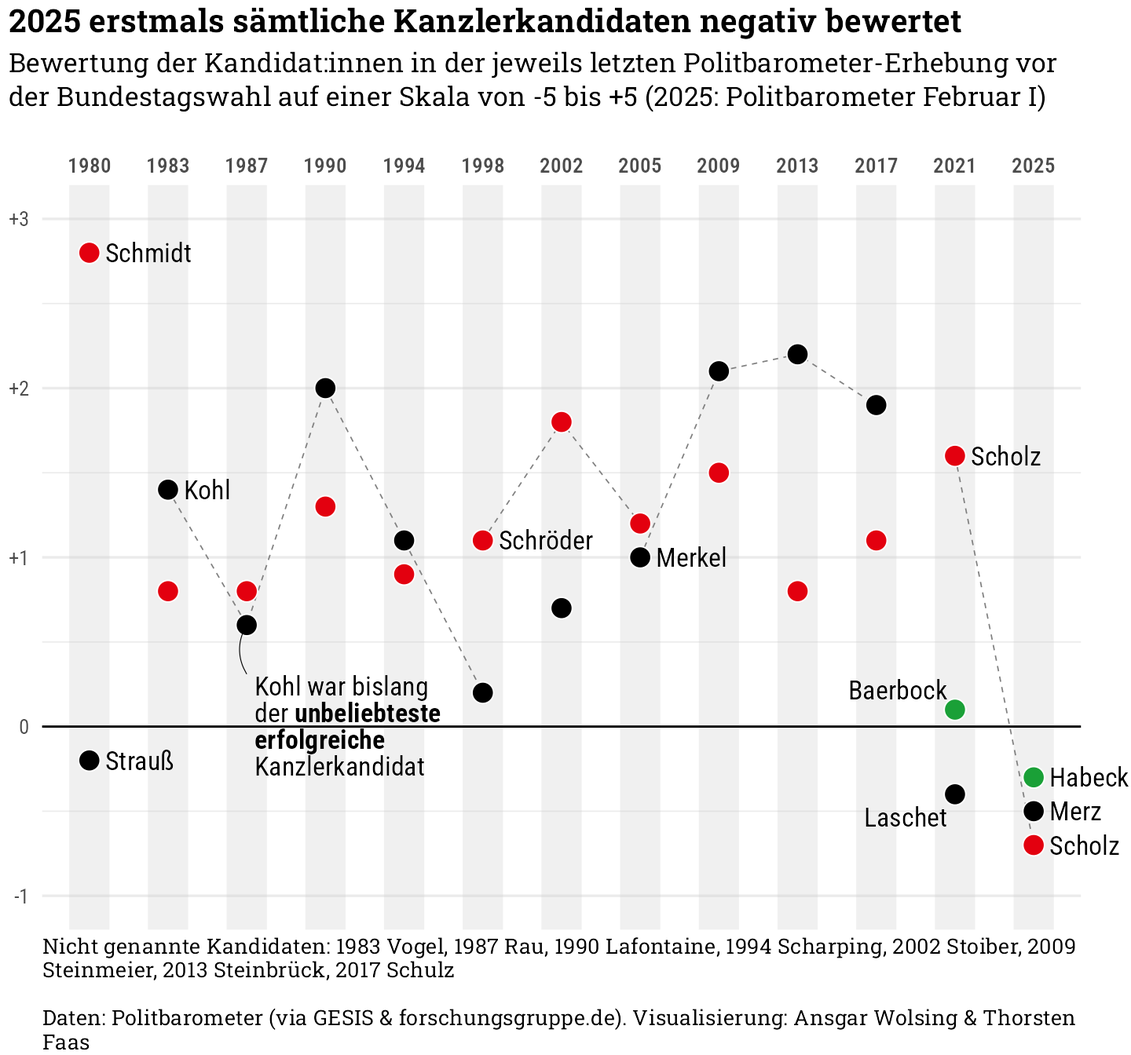
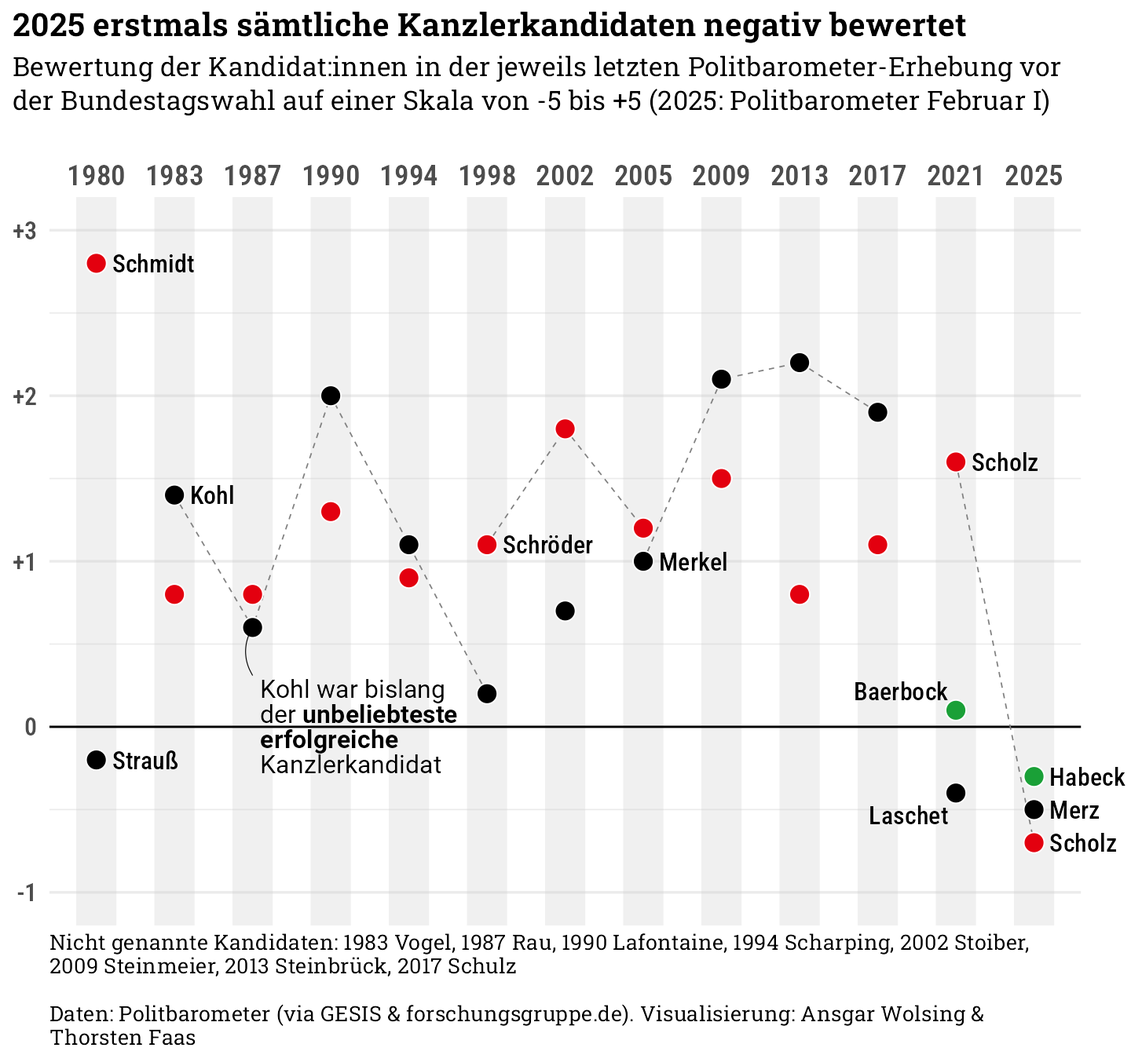
Schriftgröße Kandidaten-Skalometer; neues Chart Zuschauerzahlen ÖRR vs. Privat

diff --git a/06-tv-duell/05-tv-duell.html b/06-tv-duell/05-tv-duell.html
@@ -249,7 +249,7 @@ pre > code.sourceCode > span > a:first-child::before { text-decoration: underlin
 <div class="cell">
 <details class="code-fold">
 <summary>Code</summary>
-<div class="sourceCode cell-code" id="cb5"><pre class="sourceCode r code-with-copy"><code class="sourceCode r"><span id="cb5-1"><a href="#cb5-1" aria-hidden="true" tabindex="-1"></a>annotation_size <span class="ot">&lt;-</span> <span class="fl">4.5</span></span>
+<div class="sourceCode cell-code" id="cb5"><pre class="sourceCode r code-with-copy"><code class="sourceCode r"><span id="cb5-1"><a href="#cb5-1" aria-hidden="true" tabindex="-1"></a>annotation_size <span class="ot">&lt;-</span> <span class="fl">4.25</span></span>
 <span id="cb5-2"><a href="#cb5-2" aria-hidden="true" tabindex="-1"></a></span>
 <span id="cb5-3"><a href="#cb5-3" aria-hidden="true" tabindex="-1"></a>kandidaten_hinweis <span class="ot">&lt;-</span> df_skalo <span class="sc">|&gt;</span> </span>
 <span id="cb5-4"><a href="#cb5-4" aria-hidden="true" tabindex="-1"></a>  <span class="fu">filter</span>(<span class="sc">!</span>kandidat <span class="sc">%in%</span> <span class="fu">c</span>(<span class="st">"Merkel"</span>, <span class="st">"Schröder"</span>, <span class="st">"Schmidt"</span>, <span class="st">"Kohl"</span>, <span class="st">"Merz"</span>, <span class="st">"Scholz"</span>, </span>
@@ -284,57 +284,60 @@ pre > code.sourceCode > span > a:first-child::before { text-decoration: underlin
 <span id="cb5-33"><a href="#cb5-33" aria-hidden="true" tabindex="-1"></a>                   kandidat <span class="sc">==</span> <span class="st">"Merz"</span></span>
 <span id="cb5-34"><a href="#cb5-34" aria-hidden="true" tabindex="-1"></a>                   ),</span>
 <span id="cb5-35"><a href="#cb5-35" aria-hidden="true" tabindex="-1"></a>    <span class="fu">aes</span>(<span class="at">label =</span> kandidat),</span>
-<span id="cb5-36"><a href="#cb5-36" aria-hidden="true" tabindex="-1"></a>    <span class="at">family =</span> <span class="st">"Roboto Condensed"</span>, <span class="at">size =</span> annotation_size, <span class="at">hjust =</span> <span class="dv">0</span>, <span class="at">nudge_x =</span> <span class="fl">0.2</span></span>
-<span id="cb5-37"><a href="#cb5-37" aria-hidden="true" tabindex="-1"></a>  ) <span class="sc">+</span></span>
-<span id="cb5-38"><a href="#cb5-38" aria-hidden="true" tabindex="-1"></a>  <span class="fu">annotate</span>(</span>
-<span id="cb5-39"><a href="#cb5-39" aria-hidden="true" tabindex="-1"></a>    <span class="st">"richtext"</span>,</span>
-<span id="cb5-40"><a href="#cb5-40" aria-hidden="true" tabindex="-1"></a>    <span class="at">x =</span> <span class="fu">c</span>(<span class="st">"1987"</span>, <span class="st">"2021"</span>, <span class="st">"2025"</span>, <span class="st">"2021"</span>), </span>
-<span id="cb5-41"><a href="#cb5-41" aria-hidden="true" tabindex="-1"></a>    <span class="at">y =</span> <span class="fu">c</span>(<span class="fl">0.34</span>, <span class="sc">-</span><span class="fl">0.55</span>, <span class="fl">0.5</span>, <span class="fl">0.2</span>), </span>
-<span id="cb5-42"><a href="#cb5-42" aria-hidden="true" tabindex="-1"></a>    <span class="at">label =</span> <span class="fu">c</span>(</span>
-<span id="cb5-43"><a href="#cb5-43" aria-hidden="true" tabindex="-1"></a>      <span class="st">"Kohl war bislang&lt;br&gt;der **unbeliebteste&lt;br&gt;erfolgreiche**&lt;br&gt;Kanzlerkandidat"</span>,</span>
-<span id="cb5-44"><a href="#cb5-44" aria-hidden="true" tabindex="-1"></a>      <span class="st">"Laschet"</span>,</span>
-<span id="cb5-45"><a href="#cb5-45" aria-hidden="true" tabindex="-1"></a>      <span class="co"># "**2025 alle**&lt;br&gt;Kandidaten&lt;br&gt;im Schnitt&lt;br&gt;negativ&lt;br&gt;bewertet",</span></span>
-<span id="cb5-46"><a href="#cb5-46" aria-hidden="true" tabindex="-1"></a>      <span class="st">""</span>,</span>
-<span id="cb5-47"><a href="#cb5-47" aria-hidden="true" tabindex="-1"></a>      <span class="st">"Baerbock"</span>),</span>
-<span id="cb5-48"><a href="#cb5-48" aria-hidden="true" tabindex="-1"></a>    <span class="at">vjust =</span> <span class="fu">c</span>(<span class="dv">1</span>, <span class="fl">0.5</span>, <span class="fl">0.5</span>, <span class="fl">0.5</span>),</span>
-<span id="cb5-49"><a href="#cb5-49" aria-hidden="true" tabindex="-1"></a>    <span class="at">hjust =</span> <span class="fu">c</span>(<span class="dv">0</span>, <span class="dv">1</span>, <span class="dv">0</span>, <span class="dv">1</span>),</span>
-<span id="cb5-50"><a href="#cb5-50" aria-hidden="true" tabindex="-1"></a>    <span class="at">fill =</span> <span class="cn">NA</span>, <span class="at">label.size =</span> <span class="dv">0</span>, <span class="at">family =</span> <span class="st">"Roboto Condensed"</span>, <span class="at">size =</span> annotation_size,</span>
-<span id="cb5-51"><a href="#cb5-51" aria-hidden="true" tabindex="-1"></a>    <span class="at">lineheight =</span> <span class="dv">1</span></span>
-<span id="cb5-52"><a href="#cb5-52" aria-hidden="true" tabindex="-1"></a>  ) <span class="sc">+</span></span>
-<span id="cb5-53"><a href="#cb5-53" aria-hidden="true" tabindex="-1"></a>  <span class="fu">annotate</span>(</span>
-<span id="cb5-54"><a href="#cb5-54" aria-hidden="true" tabindex="-1"></a>    GeomCurve,</span>
-<span id="cb5-55"><a href="#cb5-55" aria-hidden="true" tabindex="-1"></a>    <span class="at">x =</span> <span class="fu">c</span>(<span class="st">"1987"</span>),</span>
-<span id="cb5-56"><a href="#cb5-56" aria-hidden="true" tabindex="-1"></a>    <span class="at">xend =</span> <span class="fu">c</span>(<span class="st">"1987"</span>),</span>
-<span id="cb5-57"><a href="#cb5-57" aria-hidden="true" tabindex="-1"></a>    <span class="at">y =</span> <span class="fu">c</span>(<span class="fl">0.31</span>),</span>
-<span id="cb5-58"><a href="#cb5-58" aria-hidden="true" tabindex="-1"></a>    <span class="at">yend =</span> <span class="fu">c</span>(<span class="fl">0.6</span>),</span>
-<span id="cb5-59"><a href="#cb5-59" aria-hidden="true" tabindex="-1"></a>    <span class="at">curvature =</span> <span class="sc">-</span><span class="fl">0.3</span>, <span class="at">linewidth =</span> <span class="fl">0.2</span></span>
-<span id="cb5-60"><a href="#cb5-60" aria-hidden="true" tabindex="-1"></a>  ) <span class="sc">+</span></span>
-<span id="cb5-61"><a href="#cb5-61" aria-hidden="true" tabindex="-1"></a>  <span class="fu">scale_x_discrete</span>(<span class="at">position =</span> <span class="st">"top"</span>) <span class="sc">+</span></span>
-<span id="cb5-62"><a href="#cb5-62" aria-hidden="true" tabindex="-1"></a>  <span class="fu">scale_y_continuous</span>(<span class="at">labels =</span> scales<span class="sc">::</span><span class="fu">label_number</span>(<span class="at">style_positive =</span> <span class="st">"plus"</span>)) <span class="sc">+</span></span>
-<span id="cb5-63"><a href="#cb5-63" aria-hidden="true" tabindex="-1"></a>  <span class="fu">scale_fill_manual</span>(<span class="at">values =</span> party_pal) <span class="sc">+</span></span>
-<span id="cb5-64"><a href="#cb5-64" aria-hidden="true" tabindex="-1"></a>  <span class="fu">scale_shape_identity</span>() <span class="sc">+</span></span>
-<span id="cb5-65"><a href="#cb5-65" aria-hidden="true" tabindex="-1"></a>  <span class="fu">scale_color_identity</span>() <span class="sc">+</span></span>
-<span id="cb5-66"><a href="#cb5-66" aria-hidden="true" tabindex="-1"></a>  <span class="fu">coord_cartesian</span>(<span class="at">ylim =</span> <span class="fu">c</span>(<span class="sc">-</span><span class="dv">1</span>, <span class="dv">3</span>), <span class="at">clip =</span> <span class="st">"off"</span>) <span class="sc">+</span></span>
-<span id="cb5-67"><a href="#cb5-67" aria-hidden="true" tabindex="-1"></a>  <span class="fu">guides</span>(<span class="at">fill =</span> <span class="st">"none"</span>) <span class="sc">+</span></span>
-<span id="cb5-68"><a href="#cb5-68" aria-hidden="true" tabindex="-1"></a>  <span class="fu">labs</span>(</span>
-<span id="cb5-69"><a href="#cb5-69" aria-hidden="true" tabindex="-1"></a>    <span class="at">title =</span> <span class="st">"2025 erstmals sämtliche Kanzlerkandidaten negativ bewertet"</span>,</span>
-<span id="cb5-70"><a href="#cb5-70" aria-hidden="true" tabindex="-1"></a>    <span class="at">subtitle =</span> <span class="st">"Bewertung der Kandidat:innen in der jeweils letzten Politbarometer-Erhebung vor der Bundestagswahl auf einer Skala von -5 bis +5 (2025: Politbarometer Februar I)"</span>,</span>
-<span id="cb5-71"><a href="#cb5-71" aria-hidden="true" tabindex="-1"></a>    <span class="at">caption =</span> <span class="fu">paste</span>(</span>
-<span id="cb5-72"><a href="#cb5-72" aria-hidden="true" tabindex="-1"></a>      <span class="fu">paste</span>(</span>
-<span id="cb5-73"><a href="#cb5-73" aria-hidden="true" tabindex="-1"></a>        <span class="st">"Nicht genannte Kandidaten: "</span>,</span>
-<span id="cb5-74"><a href="#cb5-74" aria-hidden="true" tabindex="-1"></a>       <span class="fu">paste</span>(kandidaten_hinweis<span class="sc">$</span>wahl_kandidat_label, <span class="at">collapse =</span> <span class="st">", "</span>)),</span>
-<span id="cb5-75"><a href="#cb5-75" aria-hidden="true" tabindex="-1"></a>      <span class="st">"Daten: Politbarometer (via GESIS &amp; forschungsgruppe.de).</span></span>
-<span id="cb5-76"><a href="#cb5-76" aria-hidden="true" tabindex="-1"></a><span class="st">        Visualisierung: Ansgar Wolsing &amp; Thorsten Faas"</span>, <span class="at">sep =</span> <span class="st">"&lt;br&gt;&lt;br&gt;"</span></span>
-<span id="cb5-77"><a href="#cb5-77" aria-hidden="true" tabindex="-1"></a>    ),</span>
-<span id="cb5-78"><a href="#cb5-78" aria-hidden="true" tabindex="-1"></a>    <span class="at">x =</span> <span class="cn">NULL</span>, <span class="at">y =</span> <span class="cn">NULL</span> <span class="co"># "Bewertung"</span></span>
-<span id="cb5-79"><a href="#cb5-79" aria-hidden="true" tabindex="-1"></a>  ) <span class="sc">+</span></span>
-<span id="cb5-80"><a href="#cb5-80" aria-hidden="true" tabindex="-1"></a>  <span class="fu">theme</span>(</span>
-<span id="cb5-81"><a href="#cb5-81" aria-hidden="true" tabindex="-1"></a>    <span class="at">panel.grid.major.x =</span> <span class="fu">element_blank</span>(),</span>
-<span id="cb5-82"><a href="#cb5-82" aria-hidden="true" tabindex="-1"></a>    <span class="at">panel.grid.minor.x =</span> <span class="fu">element_blank</span>(),</span>
-<span id="cb5-83"><a href="#cb5-83" aria-hidden="true" tabindex="-1"></a>    <span class="at">axis.text.x.top =</span> <span class="fu">element_text</span>(<span class="at">family =</span> <span class="st">"Roboto Condensed SemiBold"</span>),</span>
-<span id="cb5-84"><a href="#cb5-84" aria-hidden="true" tabindex="-1"></a>    <span class="at">plot.subtitle =</span> <span class="fu">element_textbox</span>(<span class="at">margin =</span> <span class="fu">margin</span>(<span class="at">b =</span> <span class="dv">20</span>)),</span>
-<span id="cb5-85"><a href="#cb5-85" aria-hidden="true" tabindex="-1"></a>    <span class="at">plot.margin =</span> <span class="fu">margin</span>(<span class="at">t =</span> <span class="dv">4</span>, <span class="at">r =</span> <span class="dv">24</span>, <span class="at">b =</span> <span class="dv">4</span>, <span class="at">l =</span> <span class="dv">4</span>)</span>
-<span id="cb5-86"><a href="#cb5-86" aria-hidden="true" tabindex="-1"></a>  )</span></code><button title="Copy to Clipboard" class="code-copy-button"><i class="bi"></i></button></pre></div>
+<span id="cb5-36"><a href="#cb5-36" aria-hidden="true" tabindex="-1"></a>    <span class="at">family =</span> <span class="st">"Roboto Condensed Medium"</span>, <span class="at">size =</span> annotation_size,</span>
+<span id="cb5-37"><a href="#cb5-37" aria-hidden="true" tabindex="-1"></a>    <span class="at">hjust =</span> <span class="dv">0</span>, <span class="at">nudge_x =</span> <span class="fl">0.2</span></span>
+<span id="cb5-38"><a href="#cb5-38" aria-hidden="true" tabindex="-1"></a>  ) <span class="sc">+</span></span>
+<span id="cb5-39"><a href="#cb5-39" aria-hidden="true" tabindex="-1"></a>  <span class="fu">annotate</span>(</span>
+<span id="cb5-40"><a href="#cb5-40" aria-hidden="true" tabindex="-1"></a>    <span class="st">"richtext"</span>,</span>
+<span id="cb5-41"><a href="#cb5-41" aria-hidden="true" tabindex="-1"></a>    <span class="at">x =</span> <span class="fu">c</span>(<span class="st">"1987"</span>, <span class="st">"2021"</span>, <span class="st">"2025"</span>, <span class="st">"2021"</span>), </span>
+<span id="cb5-42"><a href="#cb5-42" aria-hidden="true" tabindex="-1"></a>    <span class="at">y =</span> <span class="fu">c</span>(<span class="fl">0.33</span>, <span class="sc">-</span><span class="fl">0.55</span>, <span class="fl">0.5</span>, <span class="fl">0.2</span>), </span>
+<span id="cb5-43"><a href="#cb5-43" aria-hidden="true" tabindex="-1"></a>    <span class="at">label =</span> <span class="fu">c</span>(</span>
+<span id="cb5-44"><a href="#cb5-44" aria-hidden="true" tabindex="-1"></a>      <span class="st">"&lt;span style='font-family: Roboto Condensed'&gt;Kohl war </span></span>
+<span id="cb5-45"><a href="#cb5-45" aria-hidden="true" tabindex="-1"></a><span class="st">      bislang&lt;br&gt;der **unbeliebteste&lt;br&gt;erfolgreiche**&lt;br&gt;Kanzlerkandidat&lt;/span&gt;"</span>,</span>
+<span id="cb5-46"><a href="#cb5-46" aria-hidden="true" tabindex="-1"></a>      <span class="st">"Laschet"</span>,</span>
+<span id="cb5-47"><a href="#cb5-47" aria-hidden="true" tabindex="-1"></a>      <span class="co"># "**2025 alle**&lt;br&gt;Kandidaten&lt;br&gt;im Schnitt&lt;br&gt;negativ&lt;br&gt;bewertet",</span></span>
+<span id="cb5-48"><a href="#cb5-48" aria-hidden="true" tabindex="-1"></a>      <span class="st">""</span>,</span>
+<span id="cb5-49"><a href="#cb5-49" aria-hidden="true" tabindex="-1"></a>      <span class="st">"Baerbock"</span>),</span>
+<span id="cb5-50"><a href="#cb5-50" aria-hidden="true" tabindex="-1"></a>    <span class="at">vjust =</span> <span class="fu">c</span>(<span class="dv">1</span>, <span class="fl">0.5</span>, <span class="fl">0.5</span>, <span class="fl">0.5</span>),</span>
+<span id="cb5-51"><a href="#cb5-51" aria-hidden="true" tabindex="-1"></a>    <span class="at">hjust =</span> <span class="fu">c</span>(<span class="dv">0</span>, <span class="dv">1</span>, <span class="dv">0</span>, <span class="dv">1</span>),</span>
+<span id="cb5-52"><a href="#cb5-52" aria-hidden="true" tabindex="-1"></a>    <span class="at">fill =</span> <span class="cn">NA</span>, <span class="at">label.size =</span> <span class="dv">0</span>, <span class="at">family =</span> <span class="st">"Roboto Condensed Medium"</span>, </span>
+<span id="cb5-53"><a href="#cb5-53" aria-hidden="true" tabindex="-1"></a>    <span class="at">size =</span> annotation_size, <span class="at">lineheight =</span> <span class="dv">1</span></span>
+<span id="cb5-54"><a href="#cb5-54" aria-hidden="true" tabindex="-1"></a>  ) <span class="sc">+</span></span>
+<span id="cb5-55"><a href="#cb5-55" aria-hidden="true" tabindex="-1"></a>  <span class="fu">annotate</span>(</span>
+<span id="cb5-56"><a href="#cb5-56" aria-hidden="true" tabindex="-1"></a>    GeomCurve,</span>
+<span id="cb5-57"><a href="#cb5-57" aria-hidden="true" tabindex="-1"></a>    <span class="at">x =</span> <span class="fu">c</span>(<span class="st">"1987"</span>),</span>
+<span id="cb5-58"><a href="#cb5-58" aria-hidden="true" tabindex="-1"></a>    <span class="at">xend =</span> <span class="fu">c</span>(<span class="st">"1987"</span>),</span>
+<span id="cb5-59"><a href="#cb5-59" aria-hidden="true" tabindex="-1"></a>    <span class="at">y =</span> <span class="fu">c</span>(<span class="fl">0.31</span>),</span>
+<span id="cb5-60"><a href="#cb5-60" aria-hidden="true" tabindex="-1"></a>    <span class="at">yend =</span> <span class="fu">c</span>(<span class="fl">0.6</span>),</span>
+<span id="cb5-61"><a href="#cb5-61" aria-hidden="true" tabindex="-1"></a>    <span class="at">curvature =</span> <span class="sc">-</span><span class="fl">0.3</span>, <span class="at">linewidth =</span> <span class="fl">0.2</span></span>
+<span id="cb5-62"><a href="#cb5-62" aria-hidden="true" tabindex="-1"></a>  ) <span class="sc">+</span></span>
+<span id="cb5-63"><a href="#cb5-63" aria-hidden="true" tabindex="-1"></a>  <span class="fu">scale_x_discrete</span>(<span class="at">position =</span> <span class="st">"top"</span>) <span class="sc">+</span></span>
+<span id="cb5-64"><a href="#cb5-64" aria-hidden="true" tabindex="-1"></a>  <span class="fu">scale_y_continuous</span>(<span class="at">labels =</span> scales<span class="sc">::</span><span class="fu">label_number</span>(<span class="at">style_positive =</span> <span class="st">"plus"</span>)) <span class="sc">+</span></span>
+<span id="cb5-65"><a href="#cb5-65" aria-hidden="true" tabindex="-1"></a>  <span class="fu">scale_fill_manual</span>(<span class="at">values =</span> party_pal) <span class="sc">+</span></span>
+<span id="cb5-66"><a href="#cb5-66" aria-hidden="true" tabindex="-1"></a>  <span class="fu">scale_shape_identity</span>() <span class="sc">+</span></span>
+<span id="cb5-67"><a href="#cb5-67" aria-hidden="true" tabindex="-1"></a>  <span class="fu">scale_color_identity</span>() <span class="sc">+</span></span>
+<span id="cb5-68"><a href="#cb5-68" aria-hidden="true" tabindex="-1"></a>  <span class="fu">coord_cartesian</span>(<span class="at">ylim =</span> <span class="fu">c</span>(<span class="sc">-</span><span class="dv">1</span>, <span class="dv">3</span>), <span class="at">clip =</span> <span class="st">"off"</span>) <span class="sc">+</span></span>
+<span id="cb5-69"><a href="#cb5-69" aria-hidden="true" tabindex="-1"></a>  <span class="fu">guides</span>(<span class="at">fill =</span> <span class="st">"none"</span>) <span class="sc">+</span></span>
+<span id="cb5-70"><a href="#cb5-70" aria-hidden="true" tabindex="-1"></a>  <span class="fu">labs</span>(</span>
+<span id="cb5-71"><a href="#cb5-71" aria-hidden="true" tabindex="-1"></a>    <span class="at">title =</span> <span class="st">"2025 erstmals sämtliche Kanzlerkandidaten negativ bewertet"</span>,</span>
+<span id="cb5-72"><a href="#cb5-72" aria-hidden="true" tabindex="-1"></a>    <span class="at">subtitle =</span> <span class="st">"Bewertung der Kandidat:innen in der jeweils letzten Politbarometer-Erhebung vor der Bundestagswahl auf einer Skala von -5 bis +5 (2025: Politbarometer Februar I)"</span>,</span>
+<span id="cb5-73"><a href="#cb5-73" aria-hidden="true" tabindex="-1"></a>    <span class="at">caption =</span> <span class="fu">paste</span>(</span>
+<span id="cb5-74"><a href="#cb5-74" aria-hidden="true" tabindex="-1"></a>      <span class="fu">paste</span>(</span>
+<span id="cb5-75"><a href="#cb5-75" aria-hidden="true" tabindex="-1"></a>        <span class="st">"Nicht genannte Kandidaten: "</span>,</span>
+<span id="cb5-76"><a href="#cb5-76" aria-hidden="true" tabindex="-1"></a>       <span class="fu">paste</span>(kandidaten_hinweis<span class="sc">$</span>wahl_kandidat_label, <span class="at">collapse =</span> <span class="st">", "</span>)),</span>
+<span id="cb5-77"><a href="#cb5-77" aria-hidden="true" tabindex="-1"></a>      <span class="st">"Daten: Politbarometer (via GESIS &amp; forschungsgruppe.de).</span></span>
+<span id="cb5-78"><a href="#cb5-78" aria-hidden="true" tabindex="-1"></a><span class="st">        Visualisierung: Ansgar Wolsing &amp; Thorsten Faas"</span>, <span class="at">sep =</span> <span class="st">"&lt;br&gt;&lt;br&gt;"</span></span>
+<span id="cb5-79"><a href="#cb5-79" aria-hidden="true" tabindex="-1"></a>    ),</span>
+<span id="cb5-80"><a href="#cb5-80" aria-hidden="true" tabindex="-1"></a>    <span class="at">x =</span> <span class="cn">NULL</span>, <span class="at">y =</span> <span class="cn">NULL</span> <span class="co"># "Bewertung"</span></span>
+<span id="cb5-81"><a href="#cb5-81" aria-hidden="true" tabindex="-1"></a>  ) <span class="sc">+</span></span>
+<span id="cb5-82"><a href="#cb5-82" aria-hidden="true" tabindex="-1"></a>  <span class="fu">theme</span>(</span>
+<span id="cb5-83"><a href="#cb5-83" aria-hidden="true" tabindex="-1"></a>    <span class="at">panel.grid.major.x =</span> <span class="fu">element_blank</span>(),</span>
+<span id="cb5-84"><a href="#cb5-84" aria-hidden="true" tabindex="-1"></a>    <span class="at">panel.grid.minor.x =</span> <span class="fu">element_blank</span>(),</span>
+<span id="cb5-85"><a href="#cb5-85" aria-hidden="true" tabindex="-1"></a>    <span class="at">axis.text.y =</span> <span class="fu">element_text</span>(<span class="at">family =</span> <span class="st">"Roboto Condensed SemiBold"</span>, <span class="at">size =</span> <span class="dv">12</span>),</span>
+<span id="cb5-86"><a href="#cb5-86" aria-hidden="true" tabindex="-1"></a>    <span class="at">axis.text.x.top =</span> <span class="fu">element_text</span>(<span class="at">family =</span> <span class="st">"Roboto Condensed SemiBold"</span>, <span class="at">size =</span> <span class="dv">14</span>),</span>
+<span id="cb5-87"><a href="#cb5-87" aria-hidden="true" tabindex="-1"></a>    <span class="at">plot.subtitle =</span> <span class="fu">element_textbox</span>(<span class="at">margin =</span> <span class="fu">margin</span>(<span class="at">b =</span> <span class="dv">20</span>)),</span>
+<span id="cb5-88"><a href="#cb5-88" aria-hidden="true" tabindex="-1"></a>    <span class="at">plot.margin =</span> <span class="fu">margin</span>(<span class="at">t =</span> <span class="dv">6</span>, <span class="at">r =</span> <span class="dv">24</span>, <span class="at">b =</span> <span class="dv">6</span>, <span class="at">l =</span> <span class="dv">6</span>)</span>
+<span id="cb5-89"><a href="#cb5-89" aria-hidden="true" tabindex="-1"></a>  )</span></code><button title="Copy to Clipboard" class="code-copy-button"><i class="bi"></i></button></pre></div>
 </details>
 <div class="cell-output-display">
 <div>
@@ -367,49 +370,44 @@ pre > code.sourceCode > span > a:first-child::before { text-decoration: underlin
 <span id="cb7-8"><a href="#cb7-8" aria-hidden="true" tabindex="-1"></a>  <span class="dv">2021</span>, <span class="st">"Laschet/Scholz/Baerbock"</span></span>
 <span id="cb7-9"><a href="#cb7-9" aria-hidden="true" tabindex="-1"></a>)</span>
 <span id="cb7-10"><a href="#cb7-10" aria-hidden="true" tabindex="-1"></a></span>
-<span id="cb7-11"><a href="#cb7-11" aria-hidden="true" tabindex="-1"></a>df_zuschauer <span class="sc">|&gt;</span> </span>
-<span id="cb7-12"><a href="#cb7-12" aria-hidden="true" tabindex="-1"></a>  <span class="fu">inner_join</span>(btw_kandidaten, <span class="at">by =</span> <span class="fu">join_by</span>(btw)) <span class="sc">|&gt;</span> </span>
-<span id="cb7-13"><a href="#cb7-13" aria-hidden="true" tabindex="-1"></a>  <span class="co"># mutate(</span></span>
-<span id="cb7-14"><a href="#cb7-14" aria-hidden="true" tabindex="-1"></a>  <span class="co">#   btw_kandidaten_label = paste(btw, kandidaten, sep = "\n"),</span></span>
-<span id="cb7-15"><a href="#cb7-15" aria-hidden="true" tabindex="-1"></a>  <span class="co">#   btw_kandidaten_label = ifelse(</span></span>
-<span id="cb7-16"><a href="#cb7-16" aria-hidden="true" tabindex="-1"></a>  <span class="co">#     btw %in% 2005:2017,</span></span>
-<span id="cb7-17"><a href="#cb7-17" aria-hidden="true" tabindex="-1"></a>  <span class="co">#     str_wrap(btw_kandidaten_label, 10, whitespace_only = FALSE),</span></span>
-<span id="cb7-18"><a href="#cb7-18" aria-hidden="true" tabindex="-1"></a>  <span class="co">#     btw_kandidaten_label)) |&gt; </span></span>
-<span id="cb7-19"><a href="#cb7-19" aria-hidden="true" tabindex="-1"></a>    <span class="fu">mutate</span>(</span>
-<span id="cb7-20"><a href="#cb7-20" aria-hidden="true" tabindex="-1"></a>      <span class="at">kandidate_label =</span> <span class="fu">ifelse</span>(</span>
-<span id="cb7-21"><a href="#cb7-21" aria-hidden="true" tabindex="-1"></a>         btw <span class="sc">%in%</span> <span class="dv">2005</span><span class="sc">:</span><span class="dv">2017</span>,</span>
-<span id="cb7-22"><a href="#cb7-22" aria-hidden="true" tabindex="-1"></a>         <span class="fu">str_replace</span>(kandidaten, <span class="st">"/"</span>, <span class="st">"/&lt;br&gt;"</span>),</span>
-<span id="cb7-23"><a href="#cb7-23" aria-hidden="true" tabindex="-1"></a>         kandidaten</span>
-<span id="cb7-24"><a href="#cb7-24" aria-hidden="true" tabindex="-1"></a>      ),</span>
-<span id="cb7-25"><a href="#cb7-25" aria-hidden="true" tabindex="-1"></a>    <span class="at">btw_kandidaten_label =</span> <span class="fu">sprintf</span>(<span class="st">"&lt;b style='font-size:12pt'&gt;%s&lt;/b&gt;&lt;br&gt;%s"</span>, btw, kandidate_label)</span>
-<span id="cb7-26"><a href="#cb7-26" aria-hidden="true" tabindex="-1"></a>    ) <span class="sc">|&gt;</span> </span>
-<span id="cb7-27"><a href="#cb7-27" aria-hidden="true" tabindex="-1"></a>  <span class="fu">ggplot</span>(<span class="fu">aes</span>(sendungsnummer, zuschauer)) <span class="sc">+</span></span>
-<span id="cb7-28"><a href="#cb7-28" aria-hidden="true" tabindex="-1"></a>  <span class="fu">geom_col</span>(</span>
-<span id="cb7-29"><a href="#cb7-29" aria-hidden="true" tabindex="-1"></a>    <span class="at">fill =</span> color_pal[<span class="dv">1</span>]</span>
+<span id="cb7-11"><a href="#cb7-11" aria-hidden="true" tabindex="-1"></a>df_zuschauer <span class="sc">|&gt;</span></span>
+<span id="cb7-12"><a href="#cb7-12" aria-hidden="true" tabindex="-1"></a>  <span class="fu">filter</span>(btw <span class="sc">&lt;=</span> <span class="dv">2021</span>) <span class="sc">|&gt;</span> </span>
+<span id="cb7-13"><a href="#cb7-13" aria-hidden="true" tabindex="-1"></a>  <span class="fu">inner_join</span>(btw_kandidaten, <span class="at">by =</span> <span class="fu">join_by</span>(btw)) <span class="sc">|&gt;</span> </span>
+<span id="cb7-14"><a href="#cb7-14" aria-hidden="true" tabindex="-1"></a>    <span class="fu">mutate</span>(</span>
+<span id="cb7-15"><a href="#cb7-15" aria-hidden="true" tabindex="-1"></a>      <span class="at">kandidate_label =</span> <span class="fu">ifelse</span>(</span>
+<span id="cb7-16"><a href="#cb7-16" aria-hidden="true" tabindex="-1"></a>         btw <span class="sc">%in%</span> <span class="dv">2005</span><span class="sc">:</span><span class="dv">2017</span>,</span>
+<span id="cb7-17"><a href="#cb7-17" aria-hidden="true" tabindex="-1"></a>         <span class="fu">str_replace</span>(kandidaten, <span class="st">"/"</span>, <span class="st">"/&lt;br&gt;"</span>),</span>
+<span id="cb7-18"><a href="#cb7-18" aria-hidden="true" tabindex="-1"></a>         kandidaten</span>
+<span id="cb7-19"><a href="#cb7-19" aria-hidden="true" tabindex="-1"></a>      ),</span>
+<span id="cb7-20"><a href="#cb7-20" aria-hidden="true" tabindex="-1"></a>    <span class="at">btw_kandidaten_label =</span> <span class="fu">sprintf</span>(<span class="st">"&lt;b style='font-size:12pt'&gt;%s&lt;/b&gt;&lt;br&gt;%s"</span>, btw, kandidate_label)</span>
+<span id="cb7-21"><a href="#cb7-21" aria-hidden="true" tabindex="-1"></a>    ) <span class="sc">|&gt;</span> </span>
+<span id="cb7-22"><a href="#cb7-22" aria-hidden="true" tabindex="-1"></a>  <span class="fu">ggplot</span>(<span class="fu">aes</span>(sendungsnummer, zuschauer)) <span class="sc">+</span></span>
+<span id="cb7-23"><a href="#cb7-23" aria-hidden="true" tabindex="-1"></a>  <span class="fu">geom_col</span>(</span>
+<span id="cb7-24"><a href="#cb7-24" aria-hidden="true" tabindex="-1"></a>    <span class="at">fill =</span> color_pal[<span class="dv">1</span>]</span>
+<span id="cb7-25"><a href="#cb7-25" aria-hidden="true" tabindex="-1"></a>  ) <span class="sc">+</span></span>
+<span id="cb7-26"><a href="#cb7-26" aria-hidden="true" tabindex="-1"></a>  <span class="fu">geom_text</span>(</span>
+<span id="cb7-27"><a href="#cb7-27" aria-hidden="true" tabindex="-1"></a>    <span class="fu">aes</span>(<span class="at">label =</span> scales<span class="sc">::</span><span class="fu">number</span>(zuschauer, <span class="at">accuracy =</span> <span class="fl">0.1</span>, <span class="at">decimal.mark =</span> <span class="st">","</span>)),</span>
+<span id="cb7-28"><a href="#cb7-28" aria-hidden="true" tabindex="-1"></a>    <span class="at">vjust =</span> <span class="dv">1</span>, <span class="at">nudge_y =</span> <span class="sc">-</span><span class="fl">0.5</span>,</span>
+<span id="cb7-29"><a href="#cb7-29" aria-hidden="true" tabindex="-1"></a>    <span class="at">family =</span> <span class="st">"Roboto Condensed SemiBold"</span>, <span class="at">col =</span> <span class="st">"white"</span></span>
 <span id="cb7-30"><a href="#cb7-30" aria-hidden="true" tabindex="-1"></a>  ) <span class="sc">+</span></span>
-<span id="cb7-31"><a href="#cb7-31" aria-hidden="true" tabindex="-1"></a>  <span class="fu">geom_text</span>(</span>
-<span id="cb7-32"><a href="#cb7-32" aria-hidden="true" tabindex="-1"></a>    <span class="fu">aes</span>(<span class="at">label =</span> scales<span class="sc">::</span><span class="fu">number</span>(zuschauer, <span class="at">accuracy =</span> <span class="fl">0.1</span>, <span class="at">decimal.mark =</span> <span class="st">","</span>)),</span>
-<span id="cb7-33"><a href="#cb7-33" aria-hidden="true" tabindex="-1"></a>    <span class="at">vjust =</span> <span class="dv">1</span>, <span class="at">nudge_y =</span> <span class="sc">-</span><span class="fl">0.5</span>,</span>
-<span id="cb7-34"><a href="#cb7-34" aria-hidden="true" tabindex="-1"></a>    <span class="at">family =</span> <span class="st">"Roboto Condensed SemiBold"</span>, <span class="at">col =</span> <span class="st">"white"</span></span>
-<span id="cb7-35"><a href="#cb7-35" aria-hidden="true" tabindex="-1"></a>  ) <span class="sc">+</span></span>
-<span id="cb7-36"><a href="#cb7-36" aria-hidden="true" tabindex="-1"></a>  <span class="fu">geom_hline</span>(<span class="fu">aes</span>(<span class="at">yintercept =</span> <span class="dv">0</span>)) <span class="sc">+</span></span>
-<span id="cb7-37"><a href="#cb7-37" aria-hidden="true" tabindex="-1"></a>  <span class="fu">facet_grid</span>(<span class="at">cols =</span> <span class="fu">vars</span>(btw_kandidaten_label), <span class="at">switch =</span> <span class="st">"x"</span>, <span class="at">space =</span> <span class="st">"free_x"</span>, <span class="at">scale =</span> <span class="st">"free_x"</span>) <span class="sc">+</span></span>
-<span id="cb7-38"><a href="#cb7-38" aria-hidden="true" tabindex="-1"></a>  <span class="fu">labs</span>(</span>
-<span id="cb7-39"><a href="#cb7-39" aria-hidden="true" tabindex="-1"></a>    <span class="at">title =</span> <span class="st">"Zuschauerinteresse an den TV-Duellen im Bundestagswahlkampf"</span>,</span>
-<span id="cb7-40"><a href="#cb7-40" aria-hidden="true" tabindex="-1"></a>    <span class="at">subtitle =</span> <span class="st">"Zuschauer in Mio."</span>,</span>
-<span id="cb7-41"><a href="#cb7-41" aria-hidden="true" tabindex="-1"></a>    <span class="at">caption =</span> <span class="st">"Daten: Wikipedia, eigene Recherche. Visualisierung: Ansgar Wolsing &amp; Thorsten Faas"</span>,</span>
-<span id="cb7-42"><a href="#cb7-42" aria-hidden="true" tabindex="-1"></a>  ) <span class="sc">+</span></span>
-<span id="cb7-43"><a href="#cb7-43" aria-hidden="true" tabindex="-1"></a>  <span class="fu">theme</span>(</span>
-<span id="cb7-44"><a href="#cb7-44" aria-hidden="true" tabindex="-1"></a>    <span class="at">axis.text =</span> <span class="fu">element_blank</span>(),</span>
-<span id="cb7-45"><a href="#cb7-45" aria-hidden="true" tabindex="-1"></a>    <span class="at">axis.text.x =</span> <span class="fu">element_blank</span>(),</span>
-<span id="cb7-46"><a href="#cb7-46" aria-hidden="true" tabindex="-1"></a>    <span class="at">axis.title =</span> <span class="fu">element_blank</span>(),</span>
-<span id="cb7-47"><a href="#cb7-47" aria-hidden="true" tabindex="-1"></a>    <span class="at">panel.grid =</span> <span class="fu">element_blank</span>(),</span>
-<span id="cb7-48"><a href="#cb7-48" aria-hidden="true" tabindex="-1"></a>    <span class="at">panel.spacing.x =</span> <span class="fu">unit</span>(<span class="dv">5</span>, <span class="st">"mm"</span>),</span>
-<span id="cb7-49"><a href="#cb7-49" aria-hidden="true" tabindex="-1"></a>    <span class="at">strip.text.x.bottom =</span> <span class="fu">element_markdown</span>(</span>
-<span id="cb7-50"><a href="#cb7-50" aria-hidden="true" tabindex="-1"></a>      <span class="at">family =</span> <span class="st">"Roboto Condensed"</span>,</span>
-<span id="cb7-51"><a href="#cb7-51" aria-hidden="true" tabindex="-1"></a>      <span class="at">vjust =</span> <span class="dv">1</span>,</span>
-<span id="cb7-52"><a href="#cb7-52" aria-hidden="true" tabindex="-1"></a>      <span class="at">margin =</span> <span class="fu">margin</span>(<span class="at">t =</span> <span class="dv">0</span>))</span>
-<span id="cb7-53"><a href="#cb7-53" aria-hidden="true" tabindex="-1"></a>  )</span></code><button title="Copy to Clipboard" class="code-copy-button"><i class="bi"></i></button></pre></div>
+<span id="cb7-31"><a href="#cb7-31" aria-hidden="true" tabindex="-1"></a>  <span class="fu">geom_hline</span>(<span class="fu">aes</span>(<span class="at">yintercept =</span> <span class="dv">0</span>)) <span class="sc">+</span></span>
+<span id="cb7-32"><a href="#cb7-32" aria-hidden="true" tabindex="-1"></a>  <span class="fu">facet_grid</span>(<span class="at">cols =</span> <span class="fu">vars</span>(btw_kandidaten_label), <span class="at">switch =</span> <span class="st">"x"</span>, <span class="at">space =</span> <span class="st">"free_x"</span>, <span class="at">scale =</span> <span class="st">"free_x"</span>) <span class="sc">+</span></span>
+<span id="cb7-33"><a href="#cb7-33" aria-hidden="true" tabindex="-1"></a>  <span class="fu">labs</span>(</span>
+<span id="cb7-34"><a href="#cb7-34" aria-hidden="true" tabindex="-1"></a>    <span class="at">title =</span> <span class="st">"Zuschauerinteresse an den TV-Duellen im Bundestagswahlkampf"</span>,</span>
+<span id="cb7-35"><a href="#cb7-35" aria-hidden="true" tabindex="-1"></a>    <span class="at">subtitle =</span> <span class="st">"Zuschauer in Mio."</span>,</span>
+<span id="cb7-36"><a href="#cb7-36" aria-hidden="true" tabindex="-1"></a>    <span class="at">caption =</span> <span class="st">"Daten: Wikipedia, eigene Recherche. Visualisierung: Ansgar Wolsing &amp; Thorsten Faas"</span></span>
+<span id="cb7-37"><a href="#cb7-37" aria-hidden="true" tabindex="-1"></a>  ) <span class="sc">+</span></span>
+<span id="cb7-38"><a href="#cb7-38" aria-hidden="true" tabindex="-1"></a>  <span class="fu">theme</span>(</span>
+<span id="cb7-39"><a href="#cb7-39" aria-hidden="true" tabindex="-1"></a>    <span class="at">axis.text =</span> <span class="fu">element_blank</span>(),</span>
+<span id="cb7-40"><a href="#cb7-40" aria-hidden="true" tabindex="-1"></a>    <span class="at">axis.text.x =</span> <span class="fu">element_blank</span>(),</span>
+<span id="cb7-41"><a href="#cb7-41" aria-hidden="true" tabindex="-1"></a>    <span class="at">axis.title =</span> <span class="fu">element_blank</span>(),</span>
+<span id="cb7-42"><a href="#cb7-42" aria-hidden="true" tabindex="-1"></a>    <span class="at">panel.grid =</span> <span class="fu">element_blank</span>(),</span>
+<span id="cb7-43"><a href="#cb7-43" aria-hidden="true" tabindex="-1"></a>    <span class="at">panel.spacing.x =</span> <span class="fu">unit</span>(<span class="dv">5</span>, <span class="st">"mm"</span>),</span>
+<span id="cb7-44"><a href="#cb7-44" aria-hidden="true" tabindex="-1"></a>    <span class="at">strip.text.x.bottom =</span> <span class="fu">element_markdown</span>(</span>
+<span id="cb7-45"><a href="#cb7-45" aria-hidden="true" tabindex="-1"></a>      <span class="at">family =</span> <span class="st">"Roboto Condensed"</span>,</span>
+<span id="cb7-46"><a href="#cb7-46" aria-hidden="true" tabindex="-1"></a>      <span class="at">vjust =</span> <span class="dv">1</span>,</span>
+<span id="cb7-47"><a href="#cb7-47" aria-hidden="true" tabindex="-1"></a>      <span class="at">margin =</span> <span class="fu">margin</span>(<span class="at">t =</span> <span class="dv">0</span>))</span>
+<span id="cb7-48"><a href="#cb7-48" aria-hidden="true" tabindex="-1"></a>  )</span></code><button title="Copy to Clipboard" class="code-copy-button"><i class="bi"></i></button></pre></div>
 </details>
 <div class="cell-output-display">
 <div>
@@ -419,6 +417,61 @@ pre > code.sourceCode > span > a:first-child::before { text-decoration: underlin
 </div>
 </div>
 </div>
+<section id="zuschauerzahlen-örr-vs.-privat" class="level4">
+<h4 class="anchored" data-anchor-id="zuschauerzahlen-örr-vs.-privat">Zuschauerzahlen ÖRR vs.&nbsp;Privat</h4>
+<div class="cell">
+<details class="code-fold">
+<summary>Code</summary>
+<div class="sourceCode cell-code" id="cb8"><pre class="sourceCode r code-with-copy"><code class="sourceCode r"><span id="cb8-1"><a href="#cb8-1" aria-hidden="true" tabindex="-1"></a>df_zuschauer <span class="sc">|&gt;</span> </span>
+<span id="cb8-2"><a href="#cb8-2" aria-hidden="true" tabindex="-1"></a>  <span class="fu">filter</span>(btw <span class="sc">%in%</span> <span class="fu">c</span>(<span class="dv">2002</span>, <span class="dv">2021</span>, <span class="dv">2025</span>)) <span class="sc">|&gt;</span> </span>
+<span id="cb8-3"><a href="#cb8-3" aria-hidden="true" tabindex="-1"></a>  <span class="fu">mutate</span>(</span>
+<span id="cb8-4"><a href="#cb8-4" aria-hidden="true" tabindex="-1"></a>    <span class="at">sender =</span> <span class="fu">str_wrap</span>(sender, <span class="dv">12</span>),</span>
+<span id="cb8-5"><a href="#cb8-5" aria-hidden="true" tabindex="-1"></a>    <span class="at">oerr_privat =</span> <span class="fu">case_when</span>(</span>
+<span id="cb8-6"><a href="#cb8-6" aria-hidden="true" tabindex="-1"></a>      <span class="fu">str_detect</span>(sender, <span class="st">"ARD|ZDF"</span>) <span class="sc">~</span> <span class="st">"Öffentlich-rechtlich"</span>,</span>
+<span id="cb8-7"><a href="#cb8-7" aria-hidden="true" tabindex="-1"></a>      <span class="fu">str_detect</span>(sender, <span class="st">"RTL|ntv|Sat</span><span class="sc">\\</span><span class="st">.1|ProSieben"</span>) <span class="sc">~</span> <span class="st">"Privat"</span></span>
+<span id="cb8-8"><a href="#cb8-8" aria-hidden="true" tabindex="-1"></a>    )) <span class="sc">|&gt;</span> </span>
+<span id="cb8-9"><a href="#cb8-9" aria-hidden="true" tabindex="-1"></a>  <span class="fu">ggplot</span>(<span class="fu">aes</span>(sender, zuschauer)) <span class="sc">+</span></span>
+<span id="cb8-10"><a href="#cb8-10" aria-hidden="true" tabindex="-1"></a>  <span class="fu">geom_col</span>(</span>
+<span id="cb8-11"><a href="#cb8-11" aria-hidden="true" tabindex="-1"></a>    <span class="fu">aes</span>(<span class="at">fill =</span> oerr_privat),</span>
+<span id="cb8-12"><a href="#cb8-12" aria-hidden="true" tabindex="-1"></a>    <span class="at">width =</span> <span class="fl">0.75</span>) <span class="sc">+</span></span>
+<span id="cb8-13"><a href="#cb8-13" aria-hidden="true" tabindex="-1"></a>  <span class="fu">geom_text</span>(</span>
+<span id="cb8-14"><a href="#cb8-14" aria-hidden="true" tabindex="-1"></a>    <span class="fu">aes</span>(<span class="at">label =</span> scales<span class="sc">::</span><span class="fu">number</span>(zuschauer, <span class="at">accuracy =</span> <span class="fl">0.1</span>, <span class="at">decimal.mark =</span> <span class="st">","</span>)),</span>
+<span id="cb8-15"><a href="#cb8-15" aria-hidden="true" tabindex="-1"></a>    <span class="at">vjust =</span> <span class="dv">1</span>, <span class="at">nudge_y =</span> <span class="sc">-</span><span class="fl">0.5</span>,</span>
+<span id="cb8-16"><a href="#cb8-16" aria-hidden="true" tabindex="-1"></a>    <span class="at">family =</span> <span class="st">"Roboto Condensed SemiBold"</span>, <span class="at">col =</span> <span class="st">"white"</span></span>
+<span id="cb8-17"><a href="#cb8-17" aria-hidden="true" tabindex="-1"></a>  ) <span class="sc">+</span></span>
+<span id="cb8-18"><a href="#cb8-18" aria-hidden="true" tabindex="-1"></a>  <span class="fu">geom_hline</span>(<span class="fu">aes</span>(<span class="at">yintercept =</span> <span class="dv">0</span>)) <span class="sc">+</span></span>
+<span id="cb8-19"><a href="#cb8-19" aria-hidden="true" tabindex="-1"></a>  <span class="fu">scale_fill_manual</span>(<span class="at">values =</span> color_pal[<span class="fu">c</span>(<span class="dv">2</span>, <span class="dv">7</span>)]) <span class="sc">+</span></span>
+<span id="cb8-20"><a href="#cb8-20" aria-hidden="true" tabindex="-1"></a>  <span class="fu">facet_grid</span>(<span class="at">cols =</span> <span class="fu">vars</span>(btw), <span class="at">switch =</span> <span class="st">"x"</span>, <span class="at">space =</span> <span class="st">"free_x"</span>, <span class="at">scale =</span> <span class="st">"free_x"</span>) <span class="sc">+</span></span>
+<span id="cb8-21"><a href="#cb8-21" aria-hidden="true" tabindex="-1"></a>  <span class="fu">labs</span>(</span>
+<span id="cb8-22"><a href="#cb8-22" aria-hidden="true" tabindex="-1"></a>    <span class="at">title =</span> <span class="st">"Zuschauerinteresse an den TV-Duellen im Bundestagswahlkampf"</span>,</span>
+<span id="cb8-23"><a href="#cb8-23" aria-hidden="true" tabindex="-1"></a>    <span class="at">subtitle =</span> <span class="st">"Zuschauer in Mio."</span>,</span>
+<span id="cb8-24"><a href="#cb8-24" aria-hidden="true" tabindex="-1"></a>    <span class="at">caption =</span> <span class="st">"Daten: Wikipedia, eigene Recherche. </span></span>
+<span id="cb8-25"><a href="#cb8-25" aria-hidden="true" tabindex="-1"></a><span class="st">    Visualisierung: Ansgar Wolsing &amp; Thorsten Faas"</span>,</span>
+<span id="cb8-26"><a href="#cb8-26" aria-hidden="true" tabindex="-1"></a>    <span class="at">fill =</span> <span class="cn">NULL</span></span>
+<span id="cb8-27"><a href="#cb8-27" aria-hidden="true" tabindex="-1"></a>   ) <span class="sc">+</span></span>
+<span id="cb8-28"><a href="#cb8-28" aria-hidden="true" tabindex="-1"></a>   <span class="fu">theme</span>(</span>
+<span id="cb8-29"><a href="#cb8-29" aria-hidden="true" tabindex="-1"></a>    <span class="at">legend.position =</span> <span class="st">"top"</span>,</span>
+<span id="cb8-30"><a href="#cb8-30" aria-hidden="true" tabindex="-1"></a>    <span class="at">legend.justification =</span> <span class="st">"left"</span>,</span>
+<span id="cb8-31"><a href="#cb8-31" aria-hidden="true" tabindex="-1"></a>    <span class="at">axis.text.y =</span> <span class="fu">element_blank</span>(),</span>
+<span id="cb8-32"><a href="#cb8-32" aria-hidden="true" tabindex="-1"></a>    <span class="at">axis.title =</span> <span class="fu">element_blank</span>(),</span>
+<span id="cb8-33"><a href="#cb8-33" aria-hidden="true" tabindex="-1"></a>    <span class="at">panel.grid =</span> <span class="fu">element_blank</span>(),</span>
+<span id="cb8-34"><a href="#cb8-34" aria-hidden="true" tabindex="-1"></a>    <span class="at">panel.spacing.x =</span> <span class="fu">unit</span>(<span class="dv">5</span>, <span class="st">"mm"</span>),</span>
+<span id="cb8-35"><a href="#cb8-35" aria-hidden="true" tabindex="-1"></a>    <span class="at">plot.caption =</span> <span class="fu">element_textbox</span>(<span class="at">margin =</span> <span class="fu">margin</span>(<span class="at">t =</span> <span class="dv">6</span>, <span class="at">b =</span> <span class="dv">6</span>)),</span>
+<span id="cb8-36"><a href="#cb8-36" aria-hidden="true" tabindex="-1"></a>    <span class="at">strip.text.x.bottom =</span> <span class="fu">element_markdown</span>(</span>
+<span id="cb8-37"><a href="#cb8-37" aria-hidden="true" tabindex="-1"></a>      <span class="at">family =</span> <span class="st">"Roboto Condensed SemiBold"</span>,</span>
+<span id="cb8-38"><a href="#cb8-38" aria-hidden="true" tabindex="-1"></a>      <span class="at">vjust =</span> <span class="dv">1</span>,</span>
+<span id="cb8-39"><a href="#cb8-39" aria-hidden="true" tabindex="-1"></a>      <span class="at">margin =</span> <span class="fu">margin</span>(<span class="at">t =</span> <span class="dv">0</span>))</span>
+<span id="cb8-40"><a href="#cb8-40" aria-hidden="true" tabindex="-1"></a>  )</span></code><button title="Copy to Clipboard" class="code-copy-button"><i class="bi"></i></button></pre></div>
+</details>
+<div class="cell-output-display">
+<div>
+<figure class="figure">
+<p><img src="05-tv-duell_files/figure-html/plot-zuschauer-tv-duelle-oerr-vs-privat-1.png" class="img-fluid figure-img" width="672"></p>
+</figure>
+</div>
+</div>
+</div>
+</section>
 </section>
 
 </main>
